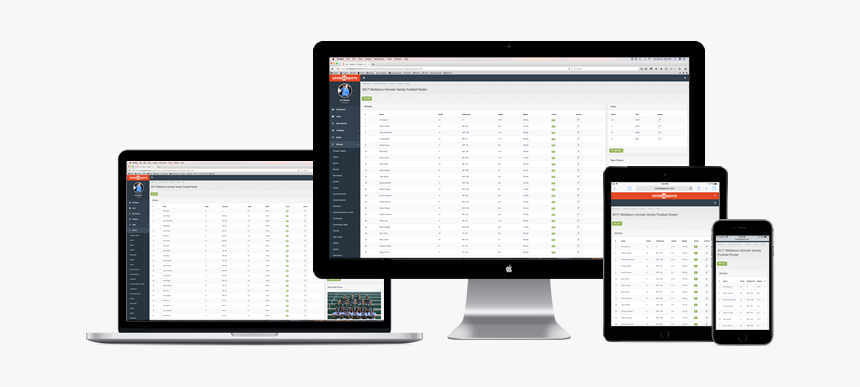
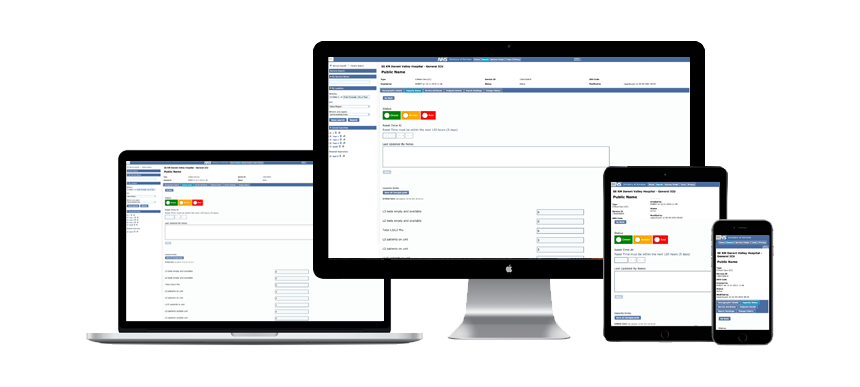
Serivce and grid width issue fix and home images updated

diff --git a/app/views/index.html b/app/views/index.html
@@ -82,6 +82,7 @@
             /* border: 2px grey solid; */
             border-radius: 15px;
             overflow: hidden;
+            box-shadow: 0 5px 14px rgb(0 0 0 / 5%), 0 5px 5px rgb(0 0 0 / 3%);
         }
 
         .thumb img {
@@ -92,14 +93,21 @@
             padding: 20px 10px;
             text-align: center;
             display: block;
-            background: white
+            color: white;
+            background: rgb(54, 54, 54);
+            font-weight: bold;
+        }
+
+        .thumb span:hover,
+        .thumb:hover span {
+            background: black;
         }
 
         .thumb:hover {
             transform: translateY(-6px);
             box-shadow: 0 14px 28px rgb(0 0 0 / 25%), 0 10px 10px rgb(0 0 0 / 10%);
             cursor: pointer;
-            transition: 0.3s;
+            transition: 0.3s ease;
         }
 
         .center {
@@ -115,20 +123,28 @@
 
             <!-- Hero Section -->
             <div class="nhsuk-grid-row">
-                <div class="nhsuk-grid-column-three-quarters">
-                    <form action="/docs/install" method="post">
-
-                        <h1>
-                            Capacity Grids Prototypes
-                        </h1>
-
-                        <!-- <img src="images/apple-devices.png" alt=""> -->
+                <div class="nhsuk-grid-column-full">
 
 
-                        <a class="nhsuk-button" href="login">
-                            View End to End Prototype
-                        </a>
-                    </form>
+                    <h1>
+                        Capacity Grids Prototypes
+                    </h1>
+
+                    <img src="images/apple-devices.png" alt="" style="width: 100%;">
+
+
+                    <a class="nhsuk-button" href="login">
+                        View End to End Prototype
+                    </a>
+
+                    <div class="nhsuk-warning-callout">
+                        <h3 class="nhsuk-warning-callout__label">
+                            Information<span class="nhsuk-u-visually-hidden">:</span>
+                        </h3>
+                        <p>If you wish to see a true reflection of how the prototype appears on Tablet/Mobile, access
+                            the prototype link on the portable device of your preference</p>
+                    </div>
+
                 </div>
             </div>
             <hr>
@@ -145,57 +161,39 @@
                         Prototype.
                     </p>
                     <div class="nhsuk-grid-row">
-                        <div class="nhsuk-grid-column-one-third">
+                        <div class="nhsuk-grid-column-one-third" style="margin-bottom: 35px">
                             <div class="thumb">
-                                <!-- <a href="login">
-                                    <img src="images/1.png" alt="">
-                                </a> -->
-
                                 <a href="login">
+                                    <img src="images/1.png" alt="">
                                     <span>E2E Flow</span>
                                 </a>
-
                             </div>
                         </div>
-
-
-
-
                     </div>
-                    <div class="nhsuk-grid-row" style="margin-top: 35px">
-                        <div class="nhsuk-grid-column-one-third">
+                    <div class="nhsuk-grid-row">
+                        <div class="nhsuk-grid-column-one-third" style="margin-bottom: 35px">
                             <div class="thumb">
-                                <!-- <a href="capacity-status">
-                                    <img src="images/2.png" alt="">
-                                </a> -->
                                 <a href="capacity-status-original">
+                                    <img src="images/cs0.png" alt="">
                                     <span>Capacity Status <br> *ORIGINAL*</span>
                                 </a>
-                                <!-- <span>Capacity Status V1</span> -->
                             </div>
                         </div>
 
-                        <div class="nhsuk-grid-column-one-third">
+                        <div class="nhsuk-grid-column-one-third" style="margin-bottom: 35px">
                             <div class="thumb">
-                                <!-- <a href="capacity-status">
-                                    <img src="images/2.png" alt="">
-                                </a> -->
                                 <a href="capacity-status">
+                                    <img src="images/cs1.png" alt="">
                                     <span>Capacity Status <br> *Version 1*</span>
                                 </a>
-                                <!-- <span>Capacity Status V1</span> -->
                             </div>
                         </div>
-                        <div class="nhsuk-grid-column-one-third">
+                        <div class="nhsuk-grid-column-one-third" style="margin-bottom: 35px">
                             <div class="thumb">
-                                <!-- <a href="login">
-                                    <img src="images/1.png" alt="">
-                                </a> -->
-
                                 <a href="capacity-status-v2">
+                                    <img src="images/cs2.png" alt="">
                                     <span>Capacity Status <br> *Version 2*</span>
                                 </a>
-
                             </div>
                         </div>
 
@@ -212,6 +210,20 @@
                     </h2>
 
                     <dl class="nhsuk-summary-list">
+
+                        <div class="nhsuk-summary-list__row">
+                            <dt class="nhsuk-summary-list__key">
+                                10/3/21
+                            </dt>
+                            <dd class="nhsuk-summary-list__value">
+                                E2E flow for Initial User Review feedback completed
+                            </dd>
+                            <dd class="nhsuk-summary-list__actions">
+                                <a href="#">
+                                    <!-- Change -->
+                                </a>
+                            </dd>
+                        </div>
 
                         <div class="nhsuk-summary-list__row">
                             <dt class="nhsuk-summary-list__key">

diff --git a/app/views/grid.html b/app/views/grid.html
@@ -617,7 +617,7 @@
 </style>
 
                     <div class="divOverflowX">
-                        <table class="gridViewTable" style="table-layout: auto; min-width: 2166px;">
+                        <table class="gridViewTable" style="table-layout: auto; max-width: 100%;">
                             <thead>
                                 <tr style="vertical-align:top;">
                                     <th style="width:150px;">Critical Care</th>

diff --git a/app/views/search-results.html b/app/views/search-results.html
@@ -445,7 +445,7 @@ th {
 
 <div id="toggleServiceViewViaJquery" class="locationResults">
     
-<table class="dosTable" id="sortResultsViaTableSorter" style="font-size: 0.9em; table-layout: auto; min-width: 2151px;"><thead>
+<table class="dosTable" id="sortResultsViaTableSorter" style="font-size: 0.9em; table-layout: auto; max-width: 100%;"><thead>
     <tr>
         <th class="sortable header">Service Name</th>
         <th class="sortable header">Type</th>
